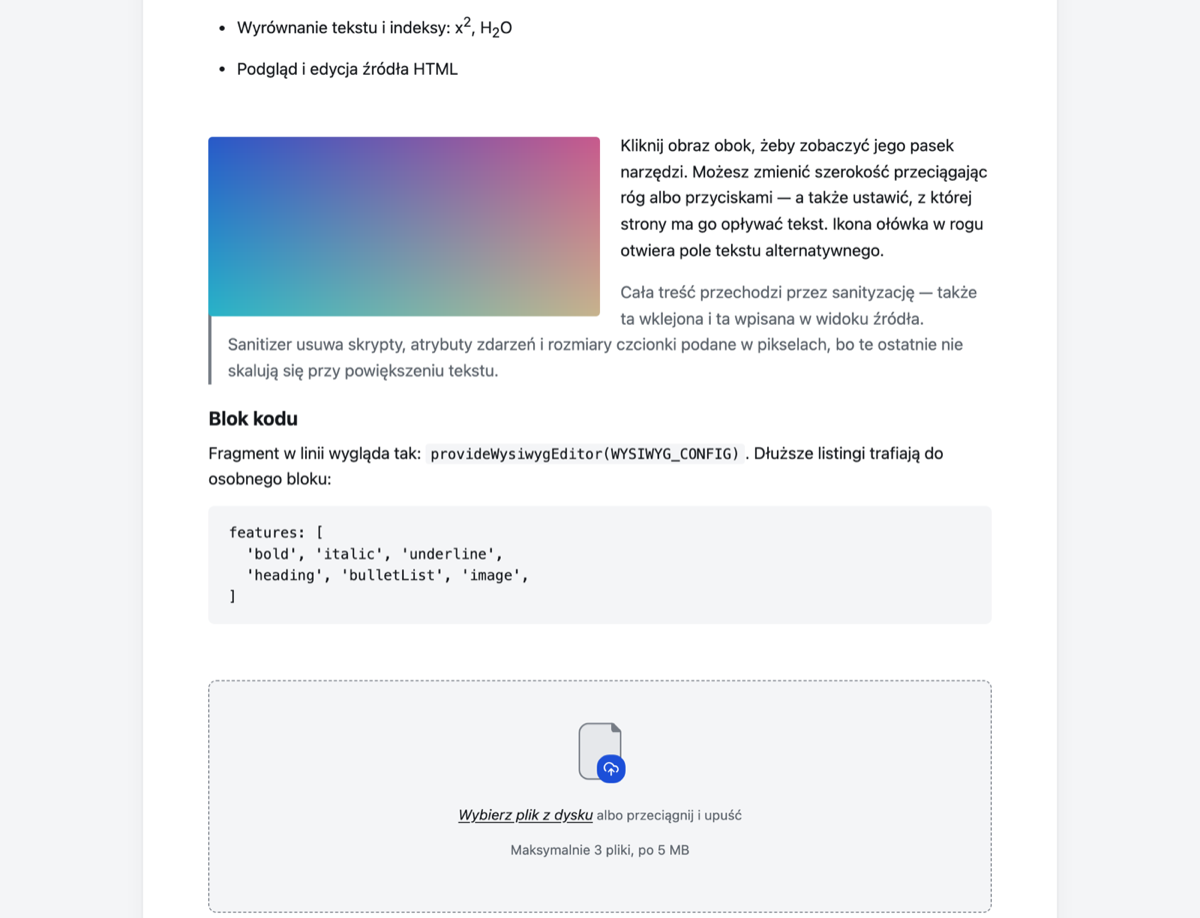
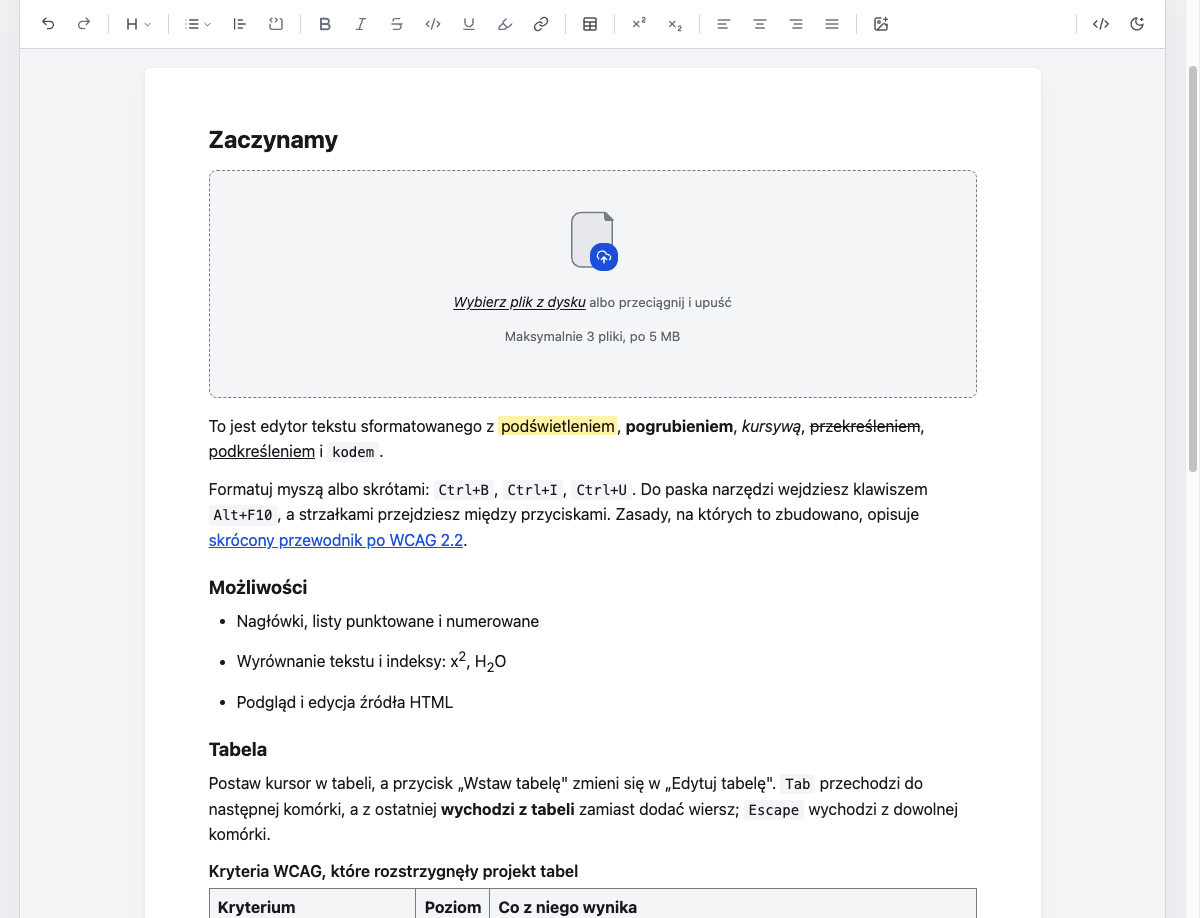
Aktualne zrzuty ekranu i naprawiony Alt+F10
Zrzuty w docs/ pokazywały pasek sprzed tabel, przycisk obrazu z podpisem
„Wstaw" i cytat oblewający obraz. Wszystkie odtworzone na aktualnej wersji.

Przy okazji, znalezione podczas ustawiania kadru na zrzut fokusu: Alt+F10
przenosił fokus na pasek dopiero za DRUGIM razem. FocusKeyManager przed
pierwszym dotknięciem paska trzyma activeItemIndex równe -1, a nie null,
więc `?? 0` wpuszczało tę wartość dalej — setActiveItem(-1) nie trafia
w żaden element i menedżer po cichu nic nie robił. Skrót jest jedyną drogą
z treści na pasek dla użytkownika klawiatury, a podpowiedź w edytorze mówi
o nim wprost, więc to była cicha awaria funkcji dostępności.

e2e/pasek.spec.ts pilnuje wejścia Alt+F10, wyjścia Escape i jednego tabstopu.

diff --git a/e2e/pasek.spec.ts b/e2e/pasek.spec.ts
@@ -1,0 +1,42 @@
+import { test, expect } from '@playwright/test';
+
+/**
+ * Wejście do paska i wyjście z niego. Regresja: `Alt+F10` był obsługiwany, ale przy
+ * PIERWSZYM użyciu nie przenosił fokusu — `FocusKeyManager` trzyma wtedy `activeItemIndex`
+ * równe -1, a nie `null`, więc `?? 0` nie łapało tej wartości i menedżer po cichu nie robił
+ * nic. Skrót zaczynał działać dopiero po wcześniejszym kliknięciu w pasek.
+ */
+test.beforeEach(async ({ page }) => {
+  await page.goto('/');
+  await expect(page.locator('.wysiwyg__content-editable')).toBeVisible();
+});
+
+test('Alt+F10 przenosi fokus z treści na pasek już za pierwszym razem', async ({ page }) => {
+  await page.locator('.wysiwyg__content-editable h2').first().click();
+
+  await page.keyboard.press('Alt+F10');
+
+  await expect(page.getByRole('button', { name: 'Cofnij' })).toBeFocused();
+});
+
+test('Escape z paska wraca do treści', async ({ page }) => {
+  await page.locator('.wysiwyg__content-editable h2').first().click();
+  await page.keyboard.press('Alt+F10');
+  await expect(page.getByRole('button', { name: 'Cofnij' })).toBeFocused();
+
+  await page.keyboard.press('Escape');
+
+  await expect(page.locator('.wysiwyg__content-editable')).toBeFocused();
+});
+
+// Wzorzec APG dla paska: dokładnie JEDEN tabstop, reszta na strzałkach.
+test('pasek ma dokładnie jeden tabstop, a strzałki przesuwają fokus', async ({ page }) => {
+  await page.locator('.wysiwyg__content-editable h2').first().click();
+  await page.keyboard.press('Alt+F10');
+
+  await expect(page.locator('.wysiwyg-toolbar [tabindex="0"]')).toHaveCount(1);
+
+  await page.keyboard.press('ArrowRight');
+  await expect(page.getByRole('button', { name: 'Ponów' })).toBeFocused();
+  await expect(page.locator('.wysiwyg-toolbar [tabindex="0"]')).toHaveCount(1);
+});

diff --git a/projects/wysiwyg-editor/src/lib/a11y/roving-toolbar.directive.ts b/projects/wysiwyg-editor/src/lib/a11y/roving-toolbar.directive.ts
@@ -86,9 +86,17 @@ export class RovingToolbarDirective implements OnDestroy {
     }
   }
 
-  /** Ustawia fokus na zapamiętanej kontrolce — wejście przez Alt+F10. */
+  /**
+   * Ustawia fokus na zapamiętanej kontrolce — wejście przez Alt+F10.
+   *
+   * `?? 0` NIE WYSTARCZY: zanim ktokolwiek dotknie paska, `FocusKeyManager` trzyma
+   * `activeItemIndex` równe **-1**, a nie `null`, więc operator wpuszczał tę wartość dalej.
+   * `setActiveItem(-1)` nie trafia w żaden element, `activeItem` zostaje `null` i menedżer
+   * po cichu nie robi nic — Alt+F10 działał dopiero po wcześniejszym kliknięciu w pasek.
+   */
   focusActiveItem(): void {
-    this.manager.setActiveItem(this.manager.activeItemIndex ?? 0);
+    const index = this.manager.activeItemIndex;
+    this.manager.setActiveItem(index != null && index >= 0 ? index : 0);
   }
 
   private applyTabIndexes(activeIndex: number): void {
